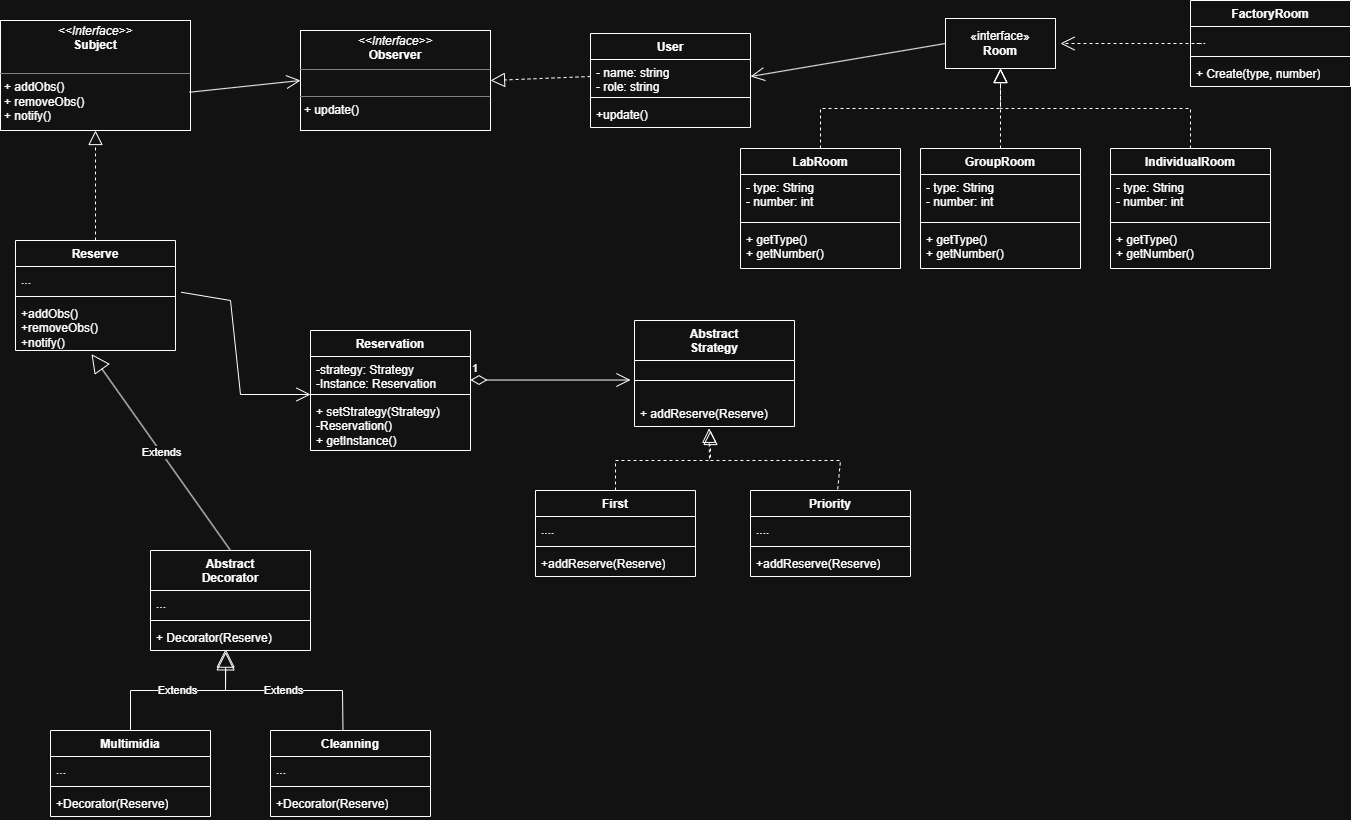
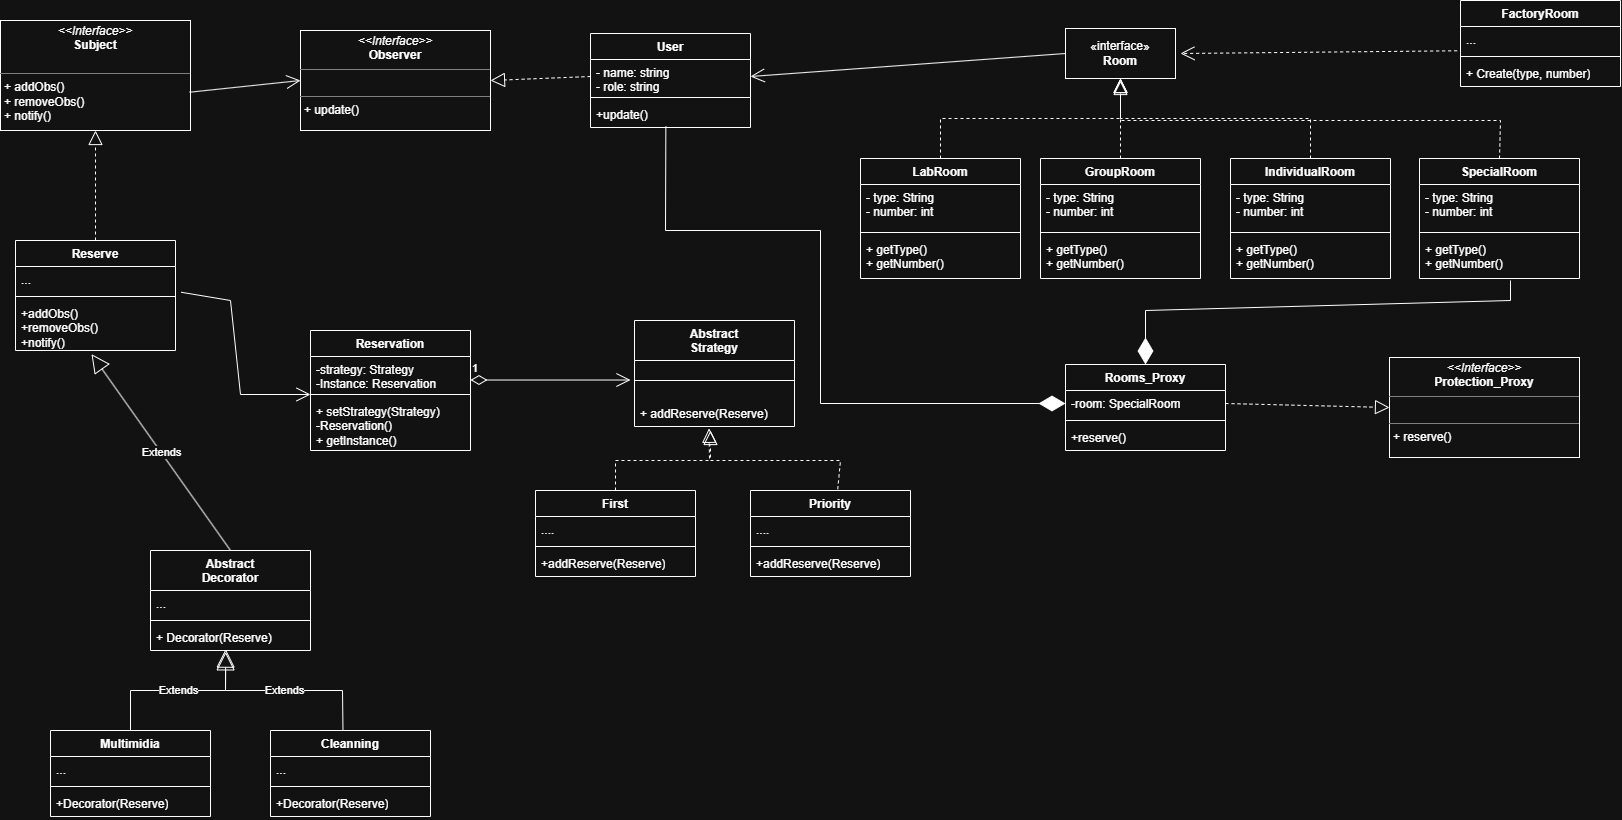
criado arquivo com a descrição do problema e nova UML

diff --git a/docs/funcionalidade_adicional.md b/docs/funcionalidade_adicional.md
@@ -1,1 +1,5 @@
 Funcionalidade adicional
+
+Adicionado um novo tipo de sala.
+Sala de tipo Especial, no qual somente professores podem reservar.
+Caso um Aluno tente reservar, receberá um aviso que a reserva foi negada.